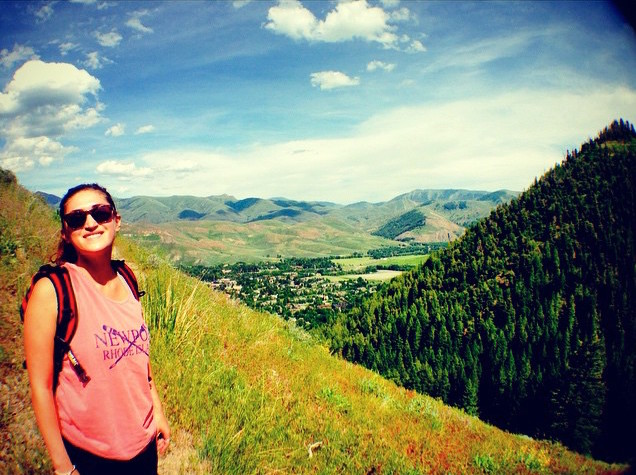
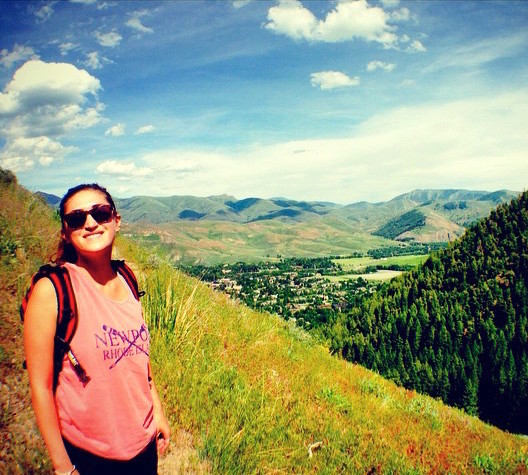
about me photo edits

diff --git a/resume/css/aboutme.css b/resume/css/aboutme.css
@@ -29,9 +29,9 @@ h1 {
 }
 
 img{
-	width: 250px;
-    height: 250px;
-    border-radius: 50%;
+	width: 300px;
+    height: 300px;
+    border-radius: 22%;
     display:block;
     margin:75px auto 20px auto;
     text-align:center;
